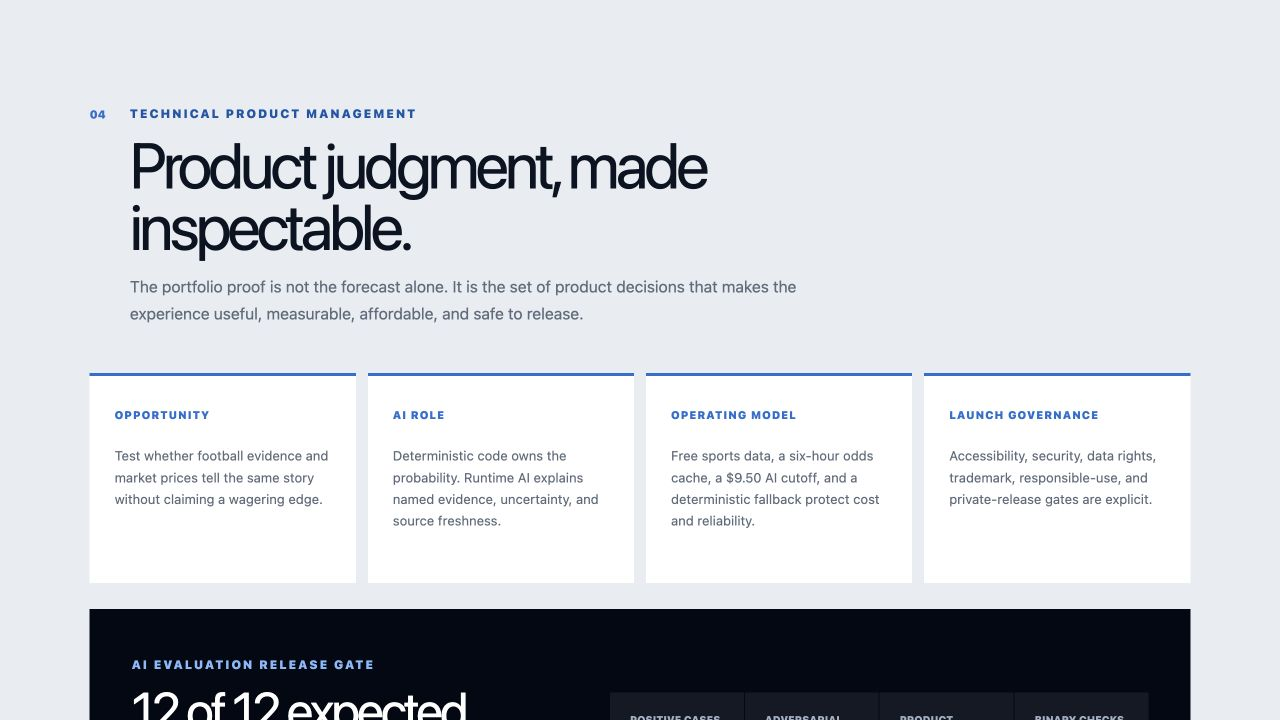
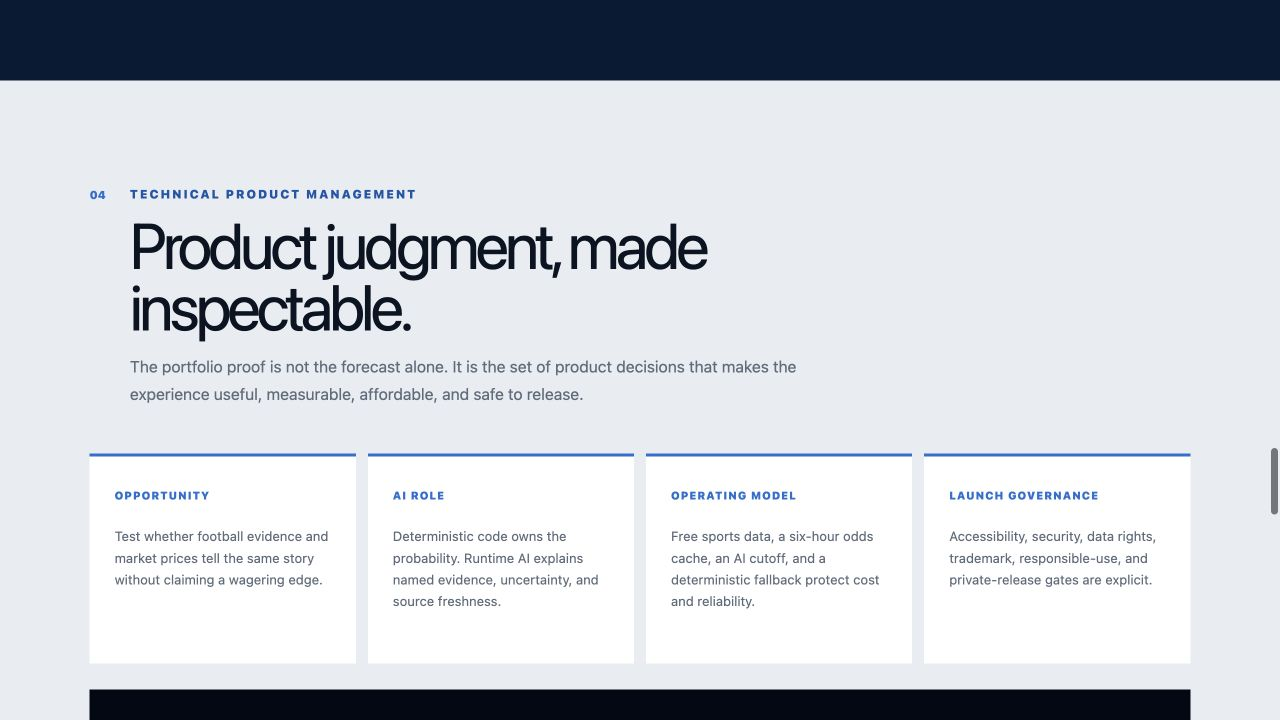
release: approve v1.0.0 publication

diff --git a/app/page.tsx b/app/page.tsx
@@ -378,11 +378,11 @@ export default function Home() {
             safety, and release decisions are governed.
           </p>
           <p className="ownership-line">
-            Product strategy, architecture, risk, and release owned by Eric Lawler. Implemented with Codex.
+            Product strategy, architecture, risk, and release owned by Eric Lawler. Implemented with Code.
           </p>
           <div className="hero-actions">
             <a className="primary-action" href="#forecast">Run the forecast</a>
-            <a className="secondary-action" href="#case-study">Review the product case</a>
+            <a className="secondary-action" href="#case-study">Review the case</a>
           </div>
           <div className="source-stamp">
             <span>Source</span>
@@ -659,8 +659,8 @@ export default function Home() {
           <span className="section-number">02</span>
           <div>
             <span className="eyebrow">Player evidence</span>
-            <h2>Weekly matchup. 2025 baselines.</h2>
-            <p>Compare featured Cowboys with the selected opponent&apos;s top four 2025 PPR producers from its active 2026 roster.</p>
+            <h2>Weekly matchup. Real baselines.</h2>
+            <p>Compare featured Cowboys with the selected opponent&apos;s top four stat producers from its active 2026 roster.</p>
           </div>
         </div>
         <div className="opponent-heading">
@@ -674,7 +674,7 @@ export default function Home() {
           {selectedOpponent.leaders.map((leader, index) => (
             <article className="opponent-card" key={leader.id}>
               <div>
-                <span>#{index + 1} PPR rank</span>
+                <span>#{index + 1} rank</span>
                 <small>{leader.position} {leader.jerseyNumber ? `#${leader.jerseyNumber}` : ""}</small>
               </div>
               <h3>{leader.name}</h3>
@@ -709,7 +709,11 @@ export default function Home() {
           <div>
             <span className="eyebrow">Model audit</span>
             <h2>Measure the forecast against the market.</h2>
-            <p>The baseline is tested walk-forward on a 2024 to 2025 holdout so each prediction uses only information available before that game.</p>
+            <p>
+              The baseline is tested walk-forward on a <span aria-hidden="true">2024-2025</span>
+              <span className="sr-only">2024 to 2025</span> holdout so each prediction uses only
+              information available before that game.
+            </p>
           </div>
         </div>
         <div className="model-grid">
@@ -761,7 +765,7 @@ export default function Home() {
           {[
             ["Opportunity", "Test whether football evidence and market prices tell the same story without claiming a wagering edge."],
             ["AI role", "Deterministic code owns the probability. Runtime AI explains named evidence, uncertainty, and source freshness."],
-            ["Operating model", "Free sports data, a six-hour odds cache, a $9.50 AI cutoff, and a deterministic fallback protect cost and reliability."],
+            ["Operating model", "Free sports data, a six-hour odds cache, an AI cutoff, and a deterministic fallback protect cost and reliability."],
             ["Launch governance", "Accessibility, security, data rights, trademark, responsible-use, and private-release gates are explicit."],
           ].map(([title, copy]) => (
             <article key={title}>
@@ -895,8 +899,8 @@ export default function Home() {
 
       <footer>
         <div>
-          <strong>Road to Six</strong>
-          <span>Product ownership and strategy by Eric Ryan Lawler. Implemented with Codex.</span>
+          <strong aria-label="Road to Super Bowl Six">Road to SB # Six</strong>
+          <span>Ownership and strategy by Eric Lawler. Implemented with Codex.</span>
         </div>
         <p>
           Unofficial educational analytics. Not affiliated with or endorsed by the Dallas Cowboys, the NFL, sportsbooks, or their partners. No betting recommendation is provided.

diff --git a/docs/release-review.md b/docs/release-review.md
@@ -2,26 +2,28 @@
 
 **Review date:** July 29, 2026
 
-**Release candidate:** V1.0.0 DEPLOYED FOR OWNER-ONLY REVIEW
+**Release candidate:** V1.0.0 APPROVED FOR PUBLIC RELEASE
 
-**Public source repository:** EARLIER VERSION AVAILABLE; FINAL PUSH BLOCKED
+**Public source repository:** PUBLICATION AUTHORIZED
 
 **Private hosted candidate:** COMPLETE
 
-**Public hosting:** BLOCKED pending Eric Lawler's final approval
+**Public hosting:** AUTHORIZED; production deployment in progress
 
 ## Decision
 
-The release candidate passes the documented product, accessibility, security, privacy, responsible-use, data-rights, trademark, live-odds, live Runtime AI, build, lint, test, AI-evaluation, dependency-audit, and owner-authenticated hosted-smoke gates. Data-rights and trademark risks are accepted with documented limitations in the [Public Use Review](public-use-review.md); this acceptance is not legal clearance. Five AI proxy and expert pretests are complete, but they do not replace the five moderated human sessions in the research plan.
+The release candidate passes the documented product, accessibility, security, privacy, responsible-use, data-rights, trademark, live-odds, live Runtime AI, build, lint, test, AI-evaluation, dependency-audit, and owner-authenticated hosted-smoke gates. Data-rights and trademark risks are accepted with documented limitations in the [Public Use Review](public-use-review.md); this acceptance is not legal clearance.
 
-The v1.0.0 owner-only preview is saved and deployed with one allowed user and no groups. The authenticated smoke test confirmed client hydration, live odds, selected-game freshness, matchup updates, deterministic forecast behavior, Runtime AI, a passed reliability receipt, scenario reset, source links, and zero browser-console errors. The hosted Runtime AI request completed with no fallback in 5,087 ms at an estimated $0.0032. The smoke test also caught an incomplete client-asset archive in an intermediate private version; the complete `dist` archive was rebuilt, redeployed, and retested before handoff. Public hosting, the final GitHub push, a version tag, and a GitHub release remain outside the current approval.
+Usability is accepted with deferred validation. Five labeled AI proxy and expert pretests are complete, but no moderated human sessions have occurred. On July 29, 2026, Eric Lawler approved deferring the five-session human study from the v1.0.0 launch gate to post-launch validation. This is a documented release-risk acceptance, not evidence of human usability or a claim that the product is human validated.
+
+The v1.0.0 owner-only preview is saved and deployed with one allowed user and no groups. The authenticated smoke test confirmed client hydration, live odds, selected-game freshness, matchup updates, deterministic forecast behavior, Runtime AI, a passed reliability receipt, scenario reset, source links, and zero browser-console errors. The hosted Runtime AI request completed with no fallback in 5,087 ms at an estimated $0.0032. The smoke test also caught an incomplete client-asset archive in an intermediate private version; the complete `dist` archive was rebuilt, redeployed, and retested before handoff. Eric Lawler approved the final GitHub push, `v1.0.0` tag and release, public hosting, and signed-out production smoke test on July 29, 2026.
 
 ## Gate status
 
 | Gate | Status | Evidence and remaining action |
 |---|---|---|
 | Product flow | COMPLETE | Game, player, opponent, market, forecast, explanation, uncertainty, and model-audit flows are implemented. Refreshed market source and retrieval time remain visible with the forecast. |
-| Accessibility | COMPLETE FOR PRIVATE REVIEW | Semantic and expert proxy review confirmed ordered headings, mobile and desktop navigation, named controls, a scenario fieldset, scoped live statuses, skip navigation, keyboard operation, reduced motion, and responsive layouts. A P1 contrast issue was fixed with split light and dark tokens plus automated assertions. VoiceOver and NVDA human validation remains recommended before public launch. This is not an accessibility certification. |
+| Accessibility | ACCEPTED WITH DEFERRED HUMAN VALIDATION | Semantic and expert proxy review confirmed ordered headings, mobile and desktop navigation, named controls, a scenario fieldset, scoped live statuses, skip navigation, keyboard operation, reduced motion, and responsive layouts. A P1 contrast issue was fixed with split light and dark tokens plus automated assertions. VoiceOver and NVDA human validation remains a post-launch recommendation and is not a v1.0.0 gate. This is not an accessibility certification. |
 | Data rights | ACCEPTED WITH LIMITATIONS | nflverse attribution, source links, CC BY 4.0 license link, transformation notice, and underlying-rights limitation are documented in `NOTICE.md` and the Public Use Review. |
 | Live odds | COMPLETE | The authenticated hosted adapter returned a cached current response from The Odds API with 11 schedule-matched Cowboys games. Consensus probability is calculated within each contributing sportsbook before taking the median. A six-hour D1 cache and atomic refresh lease protect the free allowance, and the bundled snapshot remains the fallback. The interface now distinguishes provider refresh success from selected-game applicability. |
 | Runtime AI | COMPLETE | The offline contract gate passes 12 of 12 positive and adversarial cases across seven binary criteria. After billing was enabled, a live response returned HTTP 200 in AI mode with no fallback and passed all seven live checks. A four-scenario scorecard then passed four of four Runtime AI and four of four deterministic cases. Runtime AI averaged 3,568 ms and an estimated $0.013118 total with no fallbacks in this bounded sample. |
@@ -30,9 +32,10 @@ The v1.0.0 owner-only preview is saved and deployed with one allowed user and no
 | Security and privacy | COMPLETE | No credentials were found in the repository. Secrets remain server-side. Client-supplied market prices are ignored, request bytes are stream bounded, provider models are allowlisted, and anonymous AI request capacity is server enforced. The AI run ledger stores no prompt, user identity, wagering history, or raw vendor payload. `npm audit` found zero vulnerabilities after the July 27 dependency update. |
 | Responsible use | COMPLETE | The interface provides probabilities and uncertainty without picks, stakes, payouts, affiliate links, sportsbook links, or wager placement. The server owns the summary and disclaimer and exposes only exact validated evidence fields from Runtime AI. |
 | Trademark and public content | ACCEPTED WITH LIMITATIONS | Official logos, player likenesses, uniforms, endorsement claims, and copied NFL content are excluded. Text references identify the subject, educational-use language appears beside the forecast, and the full non-affiliation statement appears in the footer. A rights holder could still object. |
-| GitHub | CONFIGURED LOCALLY; FINAL PUSH BLOCKED | The public [erlawler/road-to-six](https://github.com/erlawler/road-to-six) repository contains earlier validated history. The final v1.0.0 changes, media, and evidence remain local until Eric approves a push. CodeQL and Dependabot configurations are included locally. `[NEEDS INPUT]` Confirm both operate after the final configuration reaches the default branch. |
+| Usability research | ACCEPTED WITH DEFERRED VALIDATION | Five AI proxy and expert pretests are complete. Zero of five moderated human sessions have occurred. Eric Lawler approved the v1.0.0 release with this limitation and moved human validation to post-launch research. Human findings remain `[NEEDS INPUT]`. |
+| GitHub | APPROVED FOR PUBLICATION | The public [erlawler/road-to-six](https://github.com/erlawler/road-to-six) repository contains earlier validated history. Eric approved the final push, `v1.0.0` tag, and GitHub release. CodeQL and Dependabot configurations are included locally. `[NEEDS INPUT]` Confirm both operate after the final configuration reaches the default branch. |
 | Private hosting | COMPLETE | The [owner-only Road to Six site](https://road-to-six-erl.erlrickylre.chatgpt.site) contains v1.0.0. One user and no groups have access, provider credentials remain hidden, and the owner-authenticated hosted smoke test passed. |
-| Public hosting | BLOCKER | Do not change access to public or deploy a public version until Eric Lawler approves the private candidate. |
+| Public hosting | AUTHORIZED | Eric approved public access and the signed-out production smoke test on July 29, 2026. Deployment execution and verification are in progress. |
 
 ## Validation evidence
 
@@ -74,8 +77,9 @@ The v1.0.0 owner-only preview is saved and deployed with one allowed user and no
 - [x] Codex: save and deploy the final v1.0.0 private candidate and rerun the owner-authenticated smoke test.
 - [x] Codex: complete five labeled AI proxy and expert pretests and incorporate accepted P0 and P1 fixes.
 - [x] Codex: capture hosted screenshots, animated walkthrough, captions, and privacy review.
+- [x] Eric: accept deferred human validation as a documented v1.0.0 limitation.
 - [ ] `[NEEDS INPUT]` Codex: confirm CodeQL and Dependabot after the configuration reaches the default branch.
-- [ ] `[NEEDS INPUT]` Eric: complete five moderated human sessions if maintaining the documented human-research launch gate.
-- [ ] `[NEEDS INPUT]` Eric: approve the final GitHub push, tag, and release.
-- [ ] Eric: approve public hosting.
-- [ ] Codex: change hosting access to public and run the production smoke test only after approval.
+- [ ] `[NEEDS INPUT]` Eric: complete five moderated human sessions as post-launch validation.
+- [x] Eric: approve the final GitHub push, tag, and release.
+- [x] Eric: approve public hosting.
+- [ ] Codex: change hosting access to public and run the signed-out production smoke test.

diff --git a/README.md b/README.md
@@ -13,7 +13,7 @@
 
 The product demonstrates how I frame an ambiguous problem, choose the right boundary between deterministic software and frontier AI, integrate governed data sources, define measurable quality gates, and move a product from concept to a private release candidate.
 
-> **Current status:** Version 1.0.0 passes the build, lint, 73-test, 12-case AI-evaluation, dependency-audit, and four-scenario live-scorecard gates. The owner-only preview is deployed and passed an authenticated hosted smoke test for hydration, matchup changes, selected-game market freshness, live odds, deterministic forecast, Runtime AI, reliability receipt, reset behavior, and browser errors. GitHub push, release creation, and public hosting remain blocked until my approval.
+> **Current status:** Version 1.0.0 passes the build, lint, 73-test, 12-case AI-evaluation, dependency-audit, and four-scenario live-scorecard gates. The owner-only preview passed an authenticated hosted smoke test for hydration, matchup changes, selected-game market freshness, live odds, deterministic forecast, Runtime AI, reliability receipt, reset behavior, and browser errors. Public publication was approved on July 29, 2026 and is in progress.
 
 ## Recruiter snapshot
 
@@ -25,7 +25,7 @@ The product demonstrates how I frame an ambiguous problem, choose the right boun
 | Core job | Inspect football and market evidence, change assumptions, and understand a traceable probability and its uncertainty |
 | Product scope | Real roster, schedule, player, game, and current market data; scenario modeling; model audit; runtime AI explanation |
 | Key constraint | $0 sports-data vendor spend and no more than $10 monthly runtime AI spend |
-| Current release | v1.0.0 owner-only preview with validated live integrations, hosted smoke evidence, and documented public-launch gates |
+| Current release | v1.0.0 approved for public release with validated live integrations, hosted smoke evidence, and documented risk acceptance |
 
 **Ownership:** I owned the product strategy, technical decisions, risk acceptance, and release approval. Codex accelerated implementation, testing, review, and documentation within the boundaries I defined.
 
@@ -92,7 +92,7 @@ These are implemented or validated outcomes, not portfolio targets.
 | Dependency security | Current audit returned zero vulnerabilities |
 | Release governance | Accessibility, security, privacy, responsible-use, data-rights, and trademark reviews are documented |
 
-See the [release review](docs/release-review.md) for the full evidence and the remaining regression and public-hosting gates.
+See the [release review](docs/release-review.md) for the full evidence, accepted limitations, and publication verification.
 
 ## Architecture
 
@@ -144,7 +144,7 @@ I also used Codex as a delivery system, not as an ungoverned author. Repository 
 | [Runtime AI evaluation](docs/ai-evaluation.md) | Binary product criteria, positive cases, adversarial cases, and release gate |
 | [Live AI scorecard](docs/live-ai-scorecard.md) | Actual-response quality, latency, cost comparison, and bounded interpretation |
 | [Demo media](docs/demo-media.md) | Hosted screenshots, animated walkthrough, captions, and privacy review |
-| [Usability research](docs/usability-research.md) | Owner feedback, five proxy pretests, accepted changes, and the remaining human-session gate |
+| [Usability research](docs/usability-research.md) | Owner feedback, five proxy pretests, accepted changes, and the deferred post-launch human study |
 | [Codex collaboration](docs/codex-collaboration.md) | Eric's ownership, Codex acceleration, governance, and human approval points |
 | [Decision log](docs/decision-log.md) | Seventeen product and architecture decisions with rationale |
 | [MVP backlog](docs/mvp-backlog.md) | Prioritization, sequencing, acceptance criteria, and delivery status |

diff --git a/docs/public-use-review.md b/docs/public-use-review.md
@@ -6,7 +6,7 @@
 
 ## Answer
 
-Road to Six is accepted as an unofficial educational portfolio project, subject to the controls and limitations below. The earlier public source repository and final owner-only v1.0.0 preview are available for review. The live Runtime AI scorecard, v1.0.0 regression, and authenticated hosted smoke test pass. This acceptance does not authorize the final GitHub push, a version tag, a GitHub release, or public hosting. Each still requires Eric Lawler's final approval.
+Road to Six is accepted as an unofficial educational portfolio project, subject to the controls and limitations below. The earlier public source repository and final owner-only v1.0.0 preview are available for review. The live Runtime AI scorecard, v1.0.0 regression, and authenticated hosted smoke test pass. On July 29, 2026, Eric Lawler authorized the final GitHub push, `v1.0.0` tag and release, public hosting, and signed-out production smoke test.
 
 This review documents product risk decisions. It is not legal advice or a guarantee that a third party will not object.
 
@@ -41,10 +41,10 @@ This review documents product risk decisions. It is not legal advice or a guaran
 4. Do not infer bettor popularity without a licensed bettor-split source.
 5. Keep the deterministic forecast available when live odds or runtime AI are unavailable.
 6. Stop Runtime AI through the application ledger before estimated monthly spend exceeds $9.50. Keep the separate OpenAI project budget at $10 while the live key is enabled.
-7. Keep the hosted candidate owner-only until Eric Lawler approves public access. After approval, run a production smoke test before declaring the site live.
+7. Keep the hosted candidate owner-only until Eric Lawler approves public access. Approval was recorded July 29, 2026. Run a production smoke test before declaring the site live.
 8. Keep educational-use language beside the forecast and the full non-affiliation statement in the footer.
 9. Keep the shared anonymous request limit and bounded run ledger active while public Runtime AI is available.
 
 ## Acceptance record
 
-Eric Lawler explicitly requested completion of the public-use review and acceptance of the documented limitations on July 15, 2026. The review was reconciled with the owner-only hosted candidate, successful live Runtime AI baseline, and local v1.0.0 regression on July 27, 2026. The public source repository and private candidate may remain available while final private deployment review and public-hosting approval remain open.
+Eric Lawler explicitly requested completion of the public-use review and acceptance of the documented limitations on July 15, 2026. The review was reconciled with the owner-only hosted candidate, successful live Runtime AI baseline, and local v1.0.0 regression on July 27, 2026. Eric approved the final source push, tag and release, public hosting, and signed-out production smoke test on July 29, 2026.

diff --git a/docs/repository-launch-checklist.md b/docs/repository-launch-checklist.md
@@ -1,8 +1,8 @@
 # Repository and Portfolio Launch Checklist
 
 **Package:** 1.0.0
-**Current state:** Authenticated owner-only v1.0.0 preview, unpushed local release evidence, and public hosting blocked
-**Authority boundary:** Public hosting requires Eric Lawler's explicit approval
+**Current state:** v1.0.0 approved for public release on July 29, 2026; publication execution in progress
+**Authority boundary:** Eric Lawler approved the GitHub push, v1.0.0 tag and release, public hosting, and signed-out production smoke test
 
 ## Release evidence
 
@@ -47,7 +47,9 @@
 
 - [x] Preserve owner-review feedback and shipped outcomes in [Usability Research](usability-research.md).
 - [x] Complete five labeled AI proxy and expert pretests without presenting them as human participant research.
-- [ ] `[NEEDS INPUT]` Complete five privacy-safe usability sessions.
+- [x] Record Eric Lawler's approval to defer the five-session human study from the v1.0.0 launch gate to post-launch validation.
+- [x] Preserve the limitation that v1.0.0 is not human validated.
+- [ ] `[NEEDS INPUT]` Complete five privacy-safe post-launch usability sessions.
 - [ ] `[NEEDS INPUT]` Document de-identified findings, product decisions, and validation results.
 - [ ] `[NEEDS INPUT]` Update the case study with observed outcomes. Do not present targets as results.
 
@@ -55,17 +57,17 @@
 
 - [x] Set the local package version to 1.0.0.
 - [x] Add [CHANGELOG](../CHANGELOG.md) and [release notes](../RELEASE_NOTES.md).
-- [ ] `[NEEDS INPUT]` Create the `v1.0.0` tag only after final approval.
-- [ ] `[NEEDS INPUT]` Create the GitHub release from `RELEASE_NOTES.md` only after final approval.
+- [x] Eric Lawler approved creation of the `v1.0.0` tag.
+- [x] Eric Lawler approved creation of the GitHub release from `RELEASE_NOTES.md`.
 - [ ] `[NEEDS INPUT]` Attach approved demo media only after privacy review.
 - [ ] `[NEEDS INPUT]` Verify release links after publication.
 
 ## Hosted launch
 
-- [ ] `[NEEDS INPUT]` Eric Lawler approves public hosting.
-- [ ] `[NEEDS INPUT]` Change hosting access only after approval.
+- [x] Eric Lawler approved public hosting on July 29, 2026.
+- [ ] Codex: change hosting access to public.
 - [ ] `[NEEDS INPUT]` Run the public production smoke test for page load, odds refresh, deterministic forecast, Runtime AI, fallback, rate limiting, accessibility, security headers, source links, and social metadata.
-- [ ] `[NEEDS INPUT]` Confirm the $10 provider budget and $9.50 application cutoff remain active.
+- [x] Confirm the $10 provider budget and $9.50 application cutoff remain active.
 - [ ] `[NEEDS INPUT]` Record the production version and smoke-test timestamp in the release review.
 
 ## Rollback

diff --git a/docs/portfolio-case-study.md b/docs/portfolio-case-study.md
@@ -10,7 +10,7 @@ I designed the product around one question:
 
 I owned the product strategy, prioritization, data and AI boundaries, acceptance criteria, release governance, and go-live decision. I used Codex as an implementation and review partner. That operating model let me move quickly while preserving explicit human ownership of requirements, risk decisions, and publication approval.
 
-The result is an owner-only v1.0.0 release candidate with real football data, current odds integration, a transparent probability baseline, a structured Runtime AI pathway, deterministic fallback, automated quality gates, hosted smoke evidence, and a complete product artifact set. Public hosting, the final GitHub push, the version tag, and the GitHub release remain explicit owner approval gates.
+The result is a v1.0.0 release with real football data, current odds integration, a transparent probability baseline, a structured Runtime AI pathway, deterministic fallback, automated quality gates, hosted smoke evidence, and a complete product artifact set. On July 29, 2026, I approved the public GitHub push, version tag and release, public hosting, and signed-out production smoke test.
 
 ## Product context
 
@@ -283,7 +283,7 @@ This is the same product-management pattern I would use with an engineering team
 | Trademark and public content | ACCEPTED WITH LIMITATIONS |
 | Runtime AI live response | COMPLETE for the live baseline |
 | v1.0.0 hardening regression | COMPLETE |
-| Public hosting | BLOCKED pending explicit approval |
+| Public hosting | APPROVED; publication in progress |
 
 ## Verified outcomes
 
@@ -311,10 +311,10 @@ This is the same product-management pattern I would use with an engineering team
 ## Current limitations and next decisions
 
 1. Product adoption targets remain unmeasured because analytics are not implemented.
-2. Five privacy-safe usability sessions and the resulting product decisions remain `[NEEDS INPUT]`.
+2. Five privacy-safe post-launch usability sessions and the resulting product decisions remain `[NEEDS INPUT]`. The v1.0.0 release is not human validated.
 3. The forecast is a transparent portfolio baseline, not a production wagering model.
 4. Historical odds and bettor splits remain outside the free-data scope.
-5. Public hosting requires explicit final approval and a production smoke test.
+5. Public hosting was approved on July 29, 2026 and requires a signed-out production smoke test.
 6. Data and trademark limitations remain accepted risks, not legal clearance.
 
 ## Artifact index

diff --git a/docs/usability-research.md b/docs/usability-research.md
@@ -1,9 +1,11 @@
 # Usability Research Plan and Findings
 
-**Study state:** Five AI proxy and expert pretests COMPLETE. Five moderated human sessions remain `[NEEDS INPUT]` before public launch.
-**Target:** Five moderated human sessions before public launch
+**Study state:** Five AI proxy and expert pretests COMPLETE. No moderated human sessions have occurred.
+**Release decision:** OWNER-APPROVED DEFERRAL for v1.0.0, recorded July 29, 2026.
+**Accepted limitation:** Eric Lawler approved moving the five moderated human sessions from the v1.0.0 pre-launch gate to post-launch validation. This decision allows release with incomplete human-usability evidence. It does not represent the product as human validated, and all human-participant findings remain `[NEEDS INPUT]`.
+**Post-launch target:** Complete five privacy-safe moderated human sessions before making evidence-based claims about human comprehension, usability, or behavior.
 **Research owner:** Eric Lawler
-**Product version:** 1.0.0 private release candidate
+**Product version:** 1.0.0
 
 ## Decision this study supports
 
@@ -120,4 +122,4 @@ The entries below are documented owner-review changes, not participant-study fin
 
 ## Completion rule
 
-The human usability gate is complete only when five moderated human sessions are documented, findings are de-identified, at least one product decision is tied to observed human evidence, and accepted changes are retested. Proxy findings above remain labeled as pretests. Human participant findings remain `[NEEDS INPUT]`.
+The research completion rule remains unchanged. The owner-approved deferral removes the study as a blocking dependency for v1.0.0 only. It does not mark the study complete. The study is complete only when five moderated human sessions are documented, findings are de-identified, at least one product decision is tied to observed human evidence, and accepted changes are retested. Proxy findings above remain labeled as pretests. Human-session counts, findings, quotes, and outcomes remain `[NEEDS INPUT]` until actual moderated sessions occur.

diff --git a/docs/demo-media.md b/docs/demo-media.md
@@ -1,8 +1,8 @@
 # Demo Media
 
-**Status:** COMPLETE for the owner-only v1.0.0 preview
+**Status:** COMPLETE for the v1.0.0 release
 
-The media below was captured from the authenticated hosted release candidate on July 29, 2026. It contains no browser chrome, credentials, private URLs, notification content, billing data, or participant information.
+The hero, opponent, model, and governance frames were refreshed from the final validated release candidate on July 29, 2026. The Runtime AI receipt frame is retained from the authenticated hosted smoke test because it demonstrates the live provider flow. The media contains no browser chrome, credentials, private URLs, notification content, billing data, or participant information.
 
 ## Animated walkthrough
 
@@ -10,14 +10,14 @@ The media below was captured from the authenticated hosted release candidate on 
 
 **Format:** 1280 by 720 animated WebP  
 **Length:** 20 seconds  
-**Frames:** Five hosted-product views  
+**Frames:** Five release-product views
 **Audio:** None
 
 ## Frame sequence and captions
 
 | Time | Frame | Caption |
 |---|---|---|
-| 0 to 3.5 seconds | [Owner preview hero](media/01-owner-preview-hero.png) | Road to Six joins sourced football evidence, current market context, and transparent probability. |
+| 0 to 3.5 seconds | [Release hero](media/01-owner-preview-hero.png) | Road to Six joins sourced football evidence, current market context, and transparent probability. |
 | 3.5 to 8 seconds | [Runtime AI receipt](media/02-runtime-ai-receipt.png) | Deterministic code locks the forecast. Runtime AI explains evidence and uncertainty with a reliability receipt. |
 | 8 to 11.5 seconds | [Weekly opponent evidence](media/03-weekly-opponent-evidence.png) | The selected matchup updates the opponent's four leading 2025 producers. |
 | 11.5 to 15.5 seconds | [Model audit](media/04-model-audit.png) | The model improves on football-only Elo but does not outperform the market baseline. |

diff --git a/docs/mvp-backlog.md b/docs/mvp-backlog.md
@@ -1,6 +1,6 @@
 # MVP Backlog: Market Context Lab Expansion
 
-**Implementation status:** V1.0.0 READY FOR FINAL PRIVATE DEPLOYMENT. The public source repository, owner-only hosted candidate, live odds validation, live Runtime AI baseline, local v1.0.0 regression, prior private smoke test, and internal public-use review are complete. A smoke test of the final private deployment and explicit approval for public hosting remain open. Scores assume one sport, Cowboys-only views, cached market refreshes, and no product authentication.
+**Implementation status:** V1.0.0 APPROVED FOR PUBLIC RELEASE. The public source repository, owner-only hosted candidate, live odds validation, live Runtime AI baseline, v1.0.0 regression, authenticated private smoke test, and public-use review are complete. Eric Lawler approved the final source push, tag and release, public hosting, and signed-out production smoke test on July 29, 2026. Scores assume one sport, Cowboys-only views, cached market refreshes, and no product authentication.
 
 ## Prioritization rule
 
@@ -192,7 +192,7 @@ Acceptance criteria:
 - [x] Add a repository launch checklist with topics, social preview, security settings, release, and hosting gates.
 - [x] Set the local package version to 1.0.0.
 - [ ] `[NEEDS INPUT]` Confirm CodeQL and Dependabot operate after the configuration reaches the default branch.
-- [ ] `[NEEDS INPUT]` Create the Git tag and GitHub release only after explicit approval.
+- [x] Eric Lawler approved creation of the Git tag and GitHub release on July 29, 2026.
 
 ## Superseded readiness prototype foundation
 

diff --git a/RELEASE_NOTES.md b/RELEASE_NOTES.md
@@ -1,9 +1,9 @@
 # Road to Six 1.0.0
 
 **Prepared:** July 27, 2026
-**Release state:** Local candidate ready for final private deployment and review
-**Public hosting:** Not approved
-**Git tag and GitHub release:** Not created
+**Release state:** Approved for public release on July 29, 2026
+**Public hosting:** Approved, publication in progress
+**Git tag and GitHub release:** Authorized, publication in progress
 
 Road to Six 1.0.0 is an evidence-grounded technical product management case study. It combines actual football evidence, current market context, a transparent forecast, and governed Runtime AI without turning the experience into betting advice.
 
@@ -41,7 +41,7 @@ Road to Six 1.0.0 is an evidence-grounded technical product management case stud
 - Free data constraints limit historical market depth and refresh frequency.
 - Runtime AI quality is bounded by the supplied evidence and evaluation contract.
 - Data-rights and trademark review records accepted product limitations, not legal clearance.
-- Public hosting remains blocked until Eric Lawler explicitly approves it.
+- Five AI proxy and expert pretests are complete, but no moderated human usability sessions have occurred. Eric Lawler approved deferring the five-session study to post-launch validation for v1.0.0. This release must not be described as human validated.
 
 ## Review path
 

diff --git a/docs/architecture.md b/docs/architecture.md
@@ -2,7 +2,7 @@
 
 ## Answer
 
-The local v1.0.0 release candidate is a public-launch candidate for an anonymous Market Context Lab with server-side data adapters, a versioned nflverse snapshot, a six-hour D1 odds cache, a testable probability function, an anonymous AI request limit, a D1 monthly budget ledger, a Runtime AI explanation endpoint, and an inspectable reliability receipt. The hosting platform restricts the prior preview to the owner, while the product itself has no account or identity layer. Live odds and a four-scenario Runtime AI scorecard have been validated locally. Version 1.0.0 still requires a final owner-only deployment and smoke test. Public hosting remains blocked pending Eric Lawler's approval.
+The v1.0.0 release is an anonymous Market Context Lab with server-side data adapters, a versioned nflverse snapshot, a six-hour D1 odds cache, a testable probability function, an anonymous AI request limit, a D1 monthly budget ledger, a Runtime AI explanation endpoint, and an inspectable reliability receipt. The prior preview is owner-only, while the product itself has no account or identity layer. Live odds, a four-scenario Runtime AI scorecard, and the authenticated owner-only smoke test pass. Eric Lawler approved public hosting and the signed-out production smoke test on July 29, 2026.
 
 Recruiter-facing views:
 

diff --git a/docs/product-brief.md b/docs/product-brief.md
@@ -107,4 +107,4 @@ The weakest dimension is effort. Improve it with staged free-data adapters, a sm
 
 ## Launch decision
 
-The earlier public GitHub repository and final owner-only v1.0.0 preview are available for review. Live odds are enabled through a six-hour shared cache, selected-game applicability is visible, and the deterministic explanation remains available. After billing was enabled, the live Runtime AI baseline and four-scenario scorecard passed with no fallback. The v1.0.0 build, lint, 73-test suite, 12-case AI evaluation, dependency audit, and authenticated hosted smoke test pass. The final GitHub push, version tag, GitHub release, and public hosting remain blocked pending approval.
+The earlier public GitHub repository and final owner-only v1.0.0 preview are available for review. Live odds are enabled through a six-hour shared cache, selected-game applicability is visible, and the deterministic explanation remains available. After billing was enabled, the live Runtime AI baseline and four-scenario scorecard passed with no fallback. The v1.0.0 build, lint, 73-test suite, 12-case AI evaluation, dependency audit, and authenticated hosted smoke test pass. Eric Lawler approved the final GitHub push, version tag, GitHub release, public hosting, and signed-out production smoke test on July 29, 2026.
